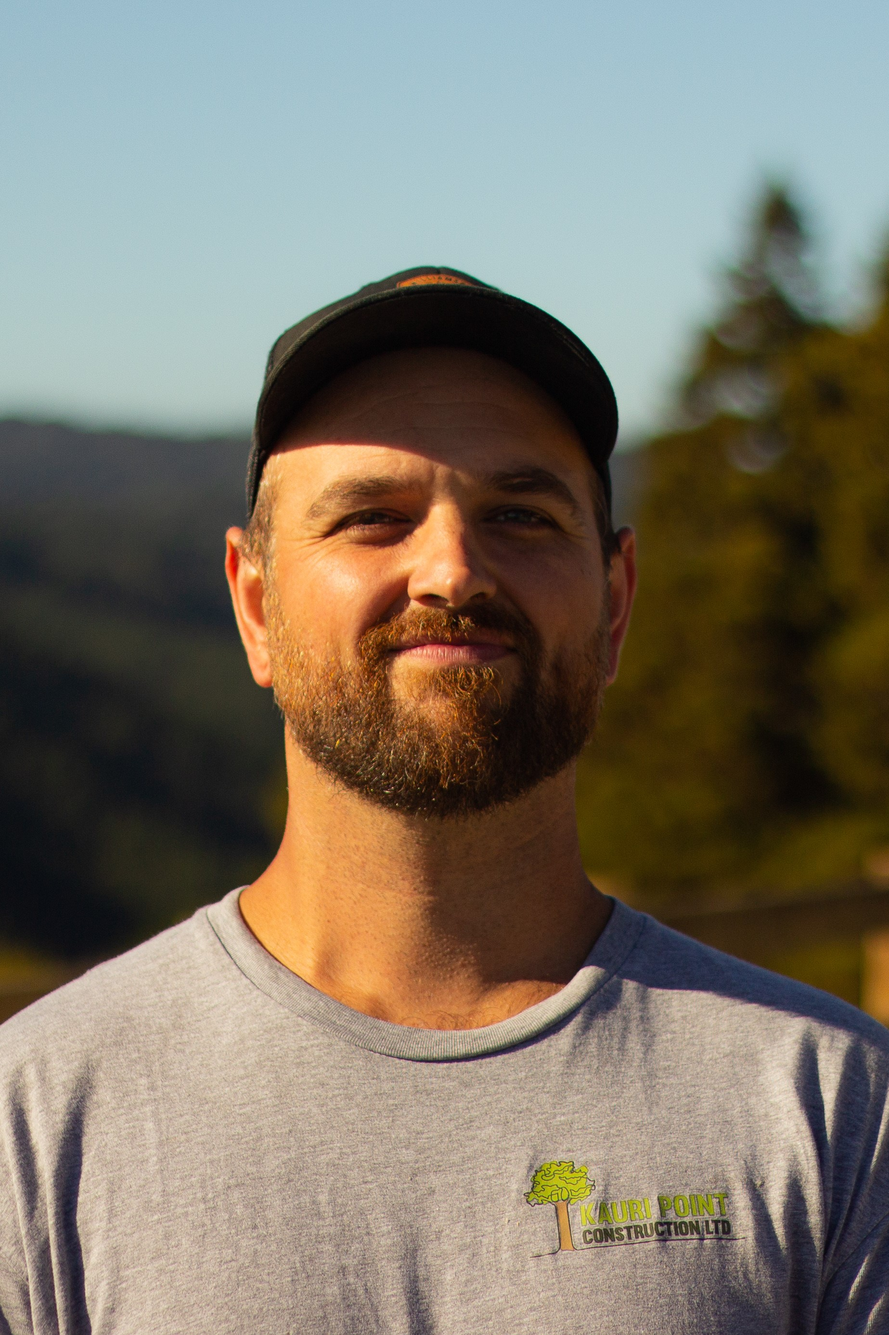
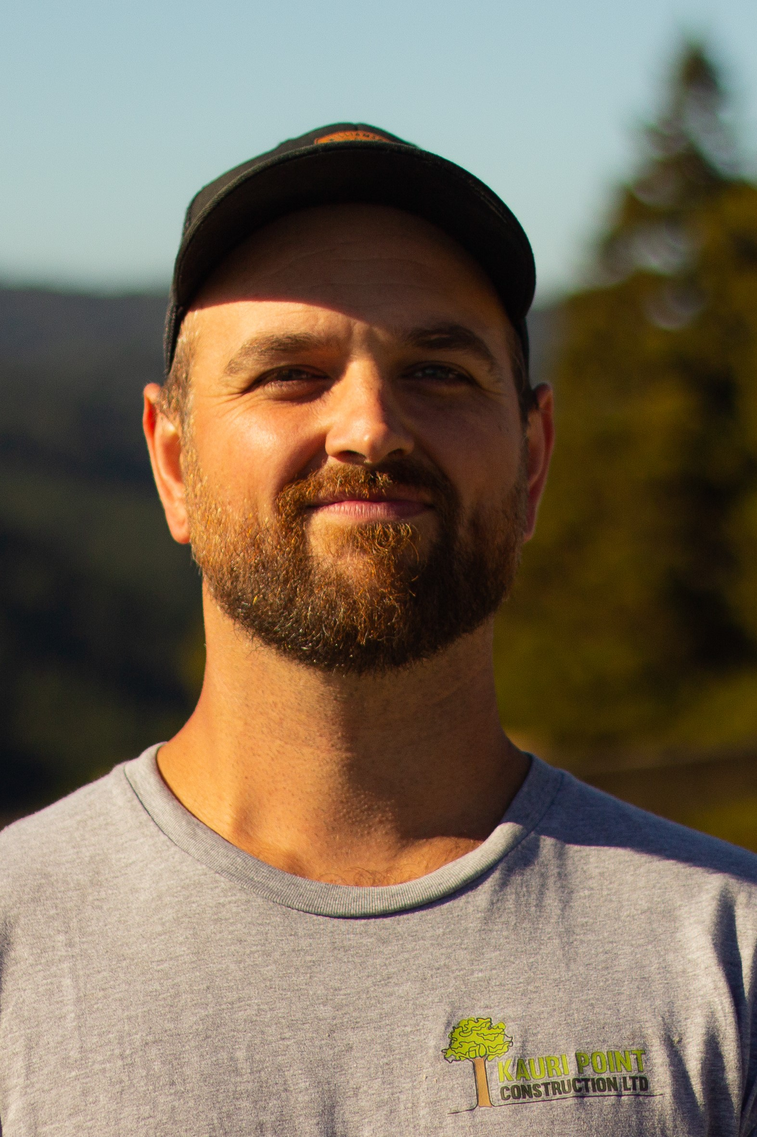
team Photos css image sizing

diff --git a/src/pages/team/team.css b/src/pages/team/team.css
@@ -13,16 +13,20 @@
     margin: 2em 10em;
 }
 
+.managerCard > .memberPhoto{
+    width:400px;
+}
+
 .greenLine { 
     display: block;
     border: var(--primary-color) 1px solid;
     width: 100%;
 }
-.photo-right {
-    height: 20em;
+.memberPhoto {
     background-color: blue;
     float: right;
     object-fit: cover;
+    width: 100%;
 }
 
 .mugShots{
@@ -78,4 +82,22 @@
 }
 .bragText > p{
     color: var(--bg-color);
+}
+
+@media screen and (min-width: 1200px) {
+    .teamMemberCard{
+        max-width: 400px;
+    }
+    .managerCard > .memberPhoto {
+        width: 500px;
+    }
+    .managerCard > .text {
+        justify-content: center;
+    }
+}
+
+@media screen and (max-width: 800px) {
+.managerCard > .memberPhoto {
+    width: 300px;
+}
 }

diff --git a/src/pages/team/team.js b/src/pages/team/team.js
@@ -79,7 +79,7 @@ function ManagerCard() {
                     commodo consequa
                 </p>
             </div>
-            <img className='photo-right' src={mugshotSimon}  alt='team member'></img>
+            <img className='memberPhoto' src={mugshotSimon}  alt='team member'></img>
         </div>
     )
 }
@@ -87,7 +87,7 @@ function ManagerCard() {
 function TeamMemberCard({name, position, text, mugshot}) {
     return (
         <div className='teamMemberCard'>
-            <img className='photo-right' src={mugshot}  alt='team member'></img>
+            <img className='memberPhoto' src={mugshot}  alt='team member'></img>
             <div className='text'>
                 <h3>{position}</h3>
                 <h1>{name}</h1>
